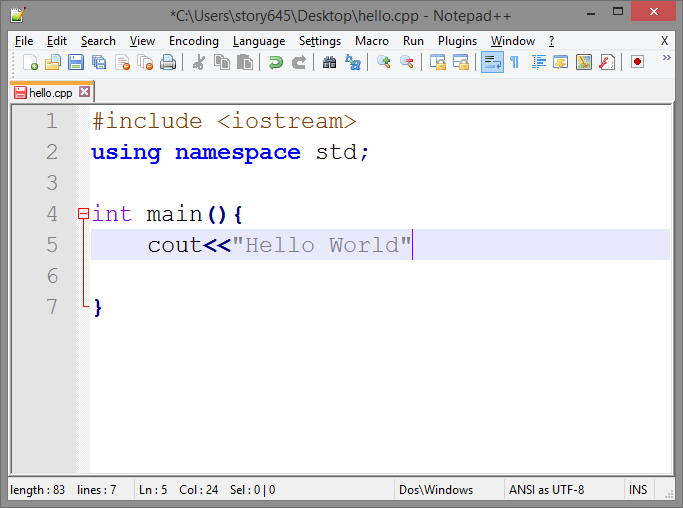
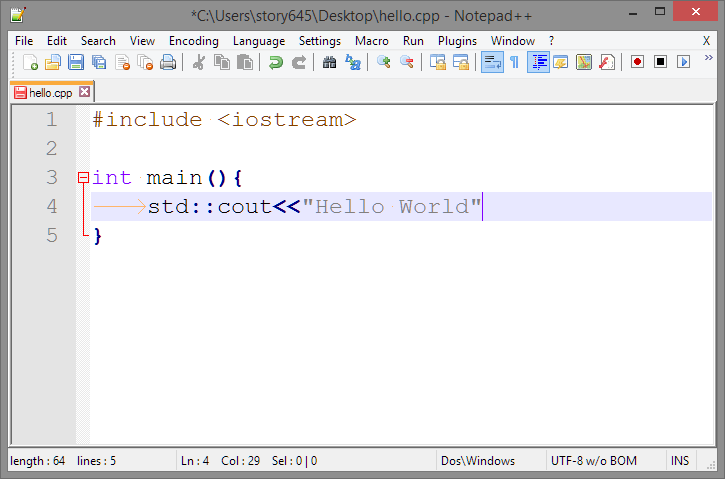
updated cout to std::cout and endl to std::endl

diff --git a/Lecture/L02_compiling/lecture02.tex b/Lecture/L02_compiling/lecture02.tex
@@ -151,37 +151,37 @@
 	\end{figure}
 \end{frame}
 
-\begin{frame}{Hello World: Namespace}
-	\begin{figure}
-			\includegraphics[width=1\textwidth]{namespace}
-	\end{figure}
-\end{frame}
+%%\begin{frame}{Hello World: Namespace}
+%%	\begin{figure}
+%%			\includegraphics[width=1\textwidth]{namespace}
+%%	\end{figure}
+%%\end{frame}
 
-\begin{frame}{Hello World: Main}
+\begin{frame}{Hello World: main}
 	\begin{figure}
 			\includegraphics[width=1\textwidth]{main}
 	\end{figure}
 \end{frame}
 
-\begin{frame}{Hello World: Cout}
+\begin{frame}{Hello World: output}
 	\begin{figure}
 			\includegraphics[width=1\textwidth]{cout}
 	\end{figure}
 \end{frame}
 
-\begin{frame}{Hello World: Hello}
+\begin{frame}{Hello World: Hello World}
 	\begin{figure}
 			\includegraphics[width=1\textwidth]{hello}
 	\end{figure}
 \end{frame}
 
-\begin{frame}{Hello World: Endl}
+\begin{frame}{Hello World: endl}
 	\begin{figure}
 			\includegraphics[width=1\textwidth]{endl}
 	\end{figure}
 \end{frame}
 
-\begin{frame}{Hello World: Return}
+\begin{frame}{Hello World: return}
 	\begin{figure}
 			\includegraphics[width=1\textwidth]{return}
 	\end{figure}
